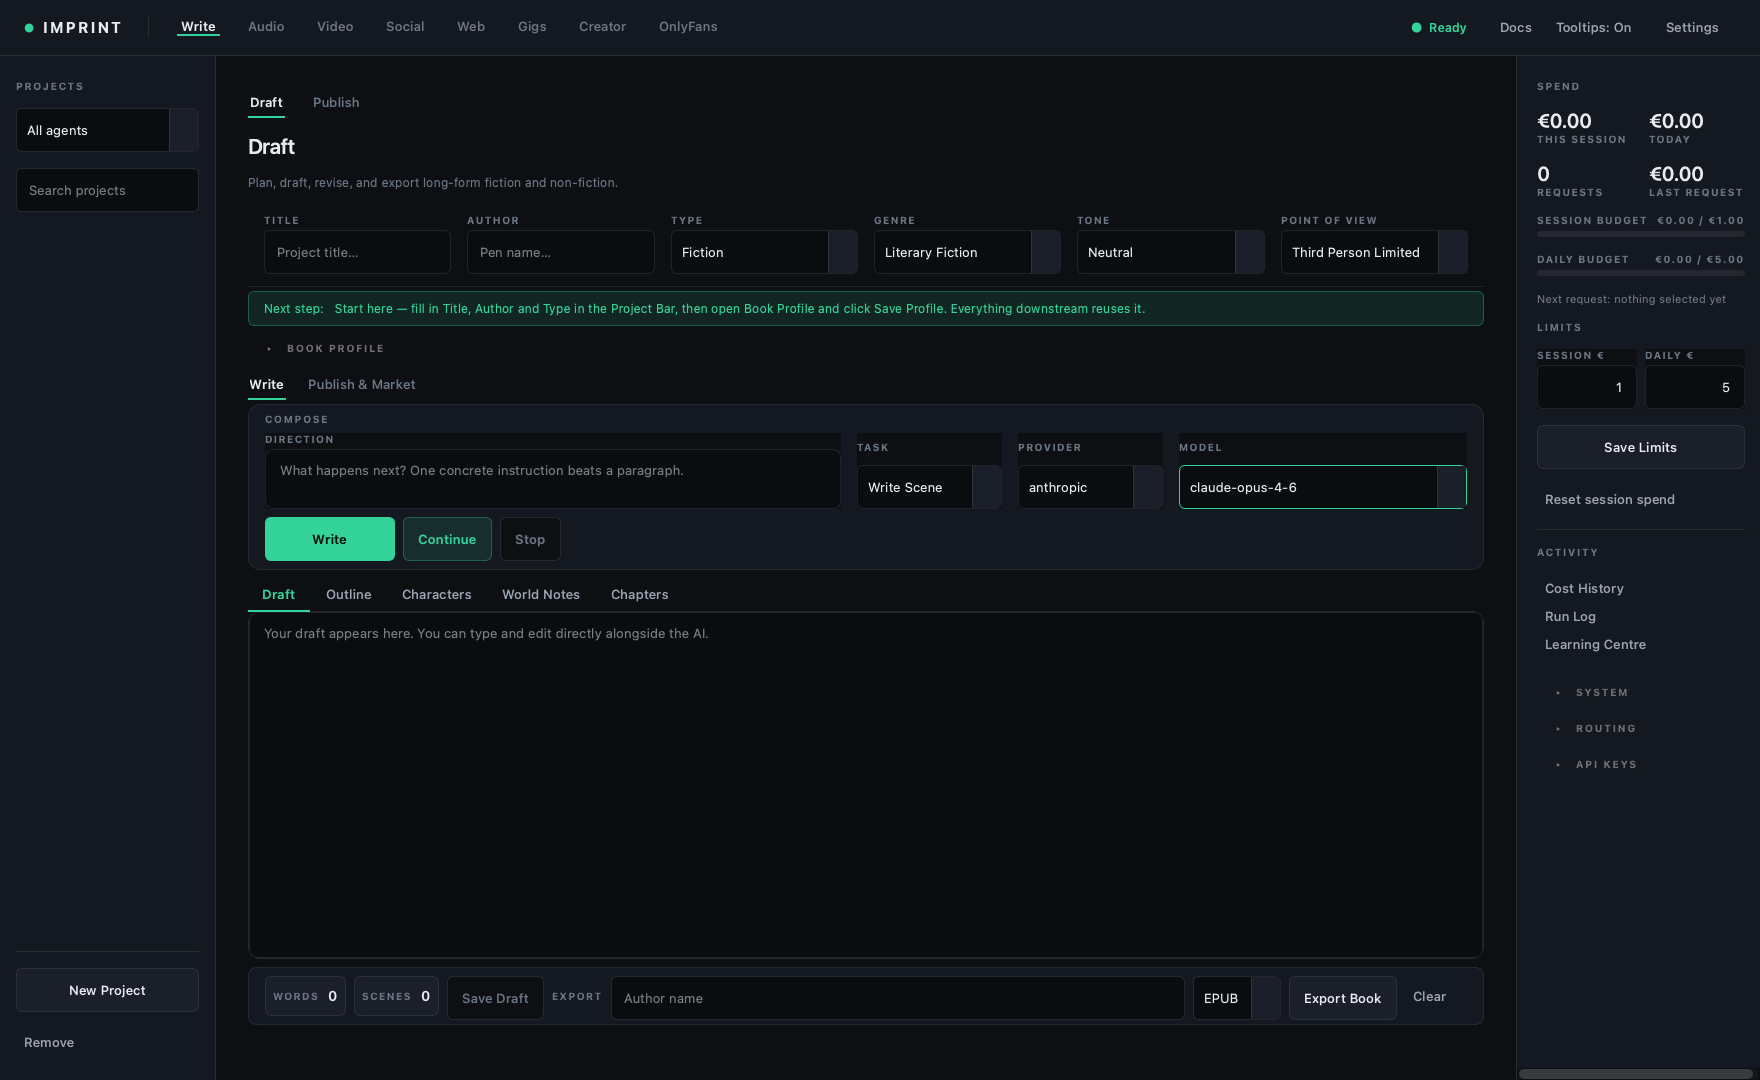
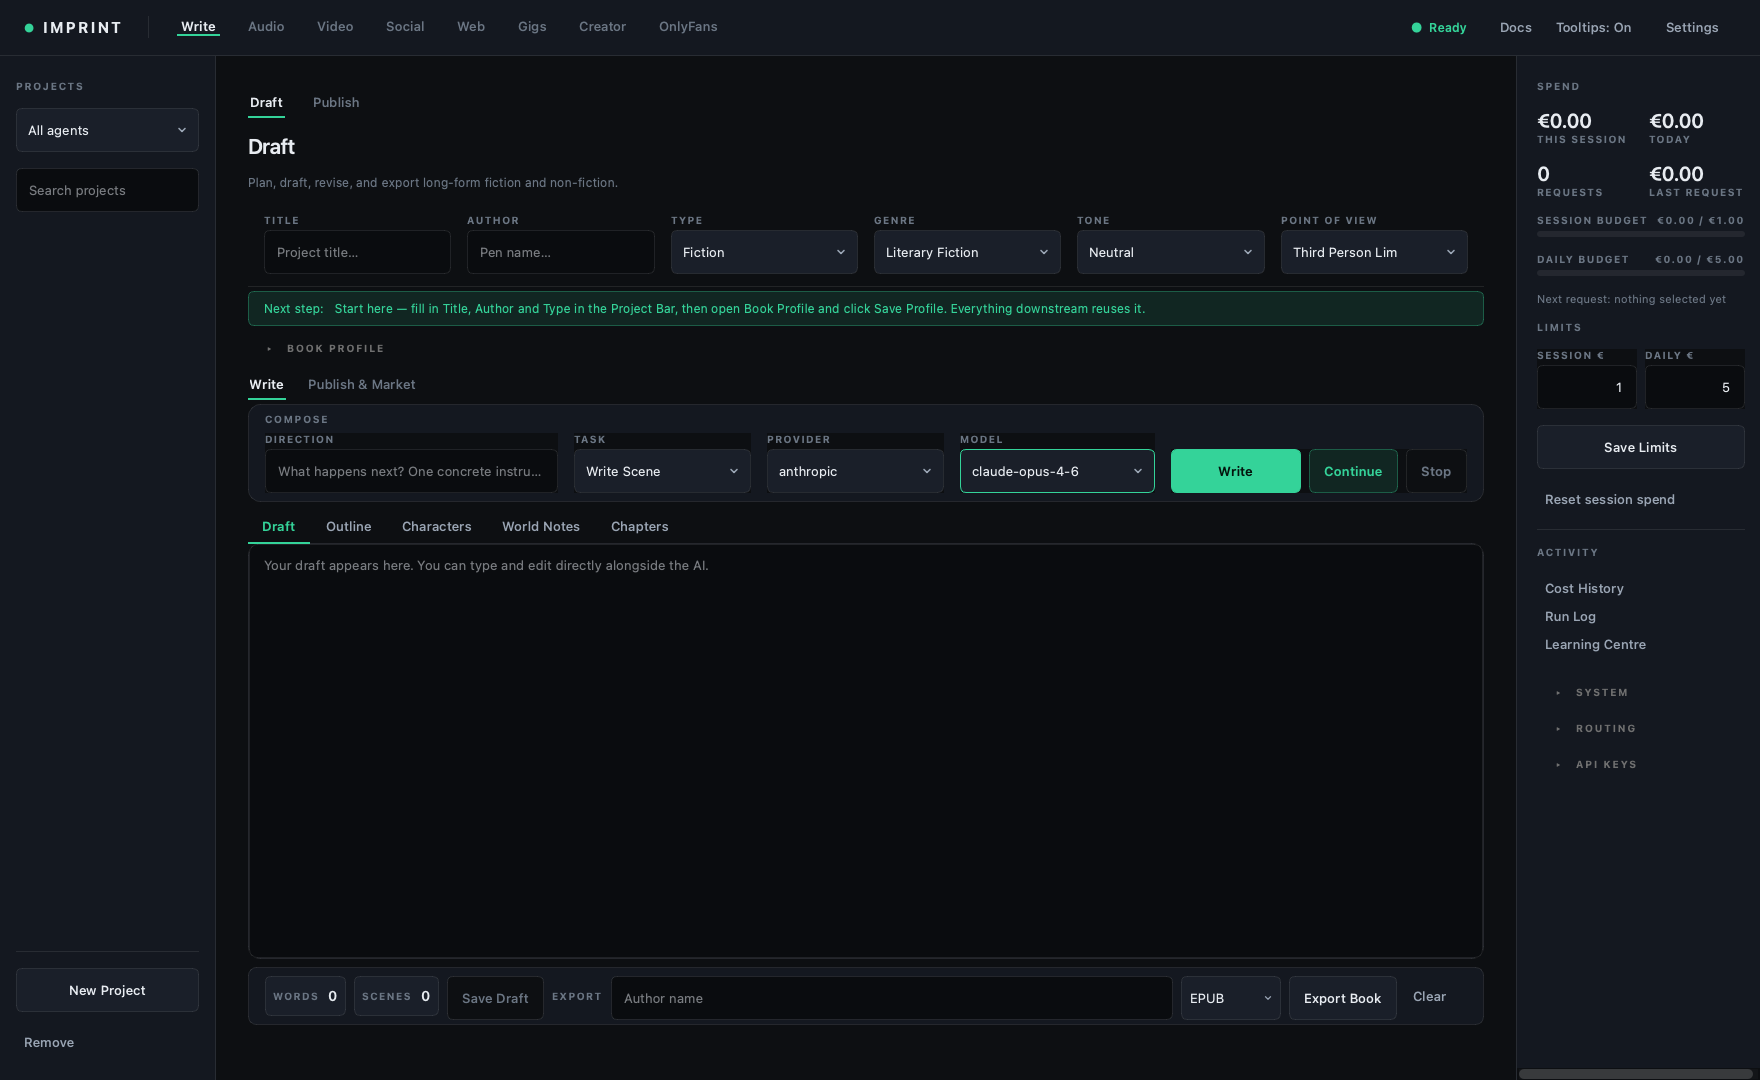
Combo boxes: a quiet SVG chevron, and a real popup
Replaces Qt's chunky platform-native arrow block with assets/dropdown-chevron.svg,
gives the value explicit right padding so a long model name can never run
underneath it, adds a CompactCombo variant for narrow selectors (EPUB / PDF)
that keeps the same visual language without spending most of its width on the
arrow, and styles the popup as a floating menu with comfortable targets rather
than a plain text dump.

let_combos_shrink() also caps the popup at nine visible items, switches it to
per-pixel scrolling and turns off its horizontal scrollbar — a list that scrolls
sideways is unusable with a mouse.

Four new layout tests cover it and the author workbench.

This was written by another Claude Code session on 2026-09-14 and left
uncommitted in the working tree; that session has since ended. I did not write
it, and the message above describes the diff rather than the author's intent.
Committing it because leaving finished, green work uncommitted protects nobody:
it has tests, the full suite passes with it in place (502), and since
git_autosync is now push-only for this repo, a working tree is no longer swept
up by the nightly run — so uncommitted really does mean unprotected.

diff --git a/ui/style.py b/ui/style.py
@@ -29,6 +29,8 @@ Greys are slightly blue rather than neutral (#0d0f12, not #0f0f0f) because a
 pure grey next to the emerald reads faintly magenta.
 """
 
+from services.runtime_paths import resource_base
+
 # ── Tokens ───────────────────────────────────────────────────────────────
 # Surfaces, darkest first. Page sits behind cards; inputs sink below cards.
 BG        = "#0d0f12"   # window / page
@@ -66,6 +68,8 @@ INFO_LINE   = "rgba(96, 165, 250, 0.32)"
 RADIUS    = "8px"
 RADIUS_SM = "6px"
 RADIUS_LG = "12px"
+
+CHEVRON_DOWN = (resource_base() / "assets" / "dropdown-chevron.svg").as_posix()
 
 
 GLOBAL_STYLESHEET = f"""
@@ -127,30 +131,71 @@ GLOBAL_STYLESHEET = f"""
             color: {TEXT};
             border: 1px solid {BORDER};
             border-radius: {RADIUS_SM};
-            padding: 6px 10px;
+            padding: 6px 38px 6px 11px;
             min-height: 20px;
         }}
         QComboBox:hover {{ border: 1px solid {BORDER_STRONG}; }}
         QComboBox:focus {{ border: 1px solid {ACCENT_LINE}; }}
-        /* Give selection controls a recognisable trailing affordance. The
-           native arrow remains platform-correct; the separated surface makes
-           a combo visually distinct from a text field even when its value is
-           long and elided. */
+        /* A quiet chevron makes the control recognisable without the chunky
+           platform-native arrow block.  The value gets explicit right padding
+           so long model names can never run underneath it. */
         QComboBox::drop-down {{
             border: none;
-            border-left: 1px solid {BORDER};
-            width: 28px;
+            width: 32px;
+            background-color: transparent;
+        }}
+        QComboBox:hover::drop-down {{
             background-color: {ELEVATED};
+        }}
+        QComboBox::down-arrow {{
+            image: url("{CHEVRON_DOWN}");
+            width: 12px;
+            height: 12px;
+        }}
+        /* Compact selectors (for example EPUB / PDF) retain the same visual
+           language without spending most of their width on the arrow area. */
+        QComboBox#CompactCombo {{
+            padding: 6px 26px 6px 8px;
+        }}
+        QComboBox#CompactCombo::drop-down {{ width: 24px; }}
+        QComboBox#CompactCombo::down-arrow {{
+            width: 10px;
+            height: 10px;
+        }}
+
+        /* The popup is a floating menu, not a plain text dump.  Each option
+           has a comfortable target and a contained hover/selection state. */
+        QComboBoxPrivateContainer {{
+            background-color: {SURFACE};
+            border: 1px solid {BORDER_STRONG};
+            border-radius: {RADIUS_LG};
+            padding: 5px;
         }}
         QComboBox QAbstractItemView {{
             background-color: {SURFACE};
             color: {TEXT};
-            border: 1px solid {BORDER_STRONG};
-            border-radius: {RADIUS_SM};
+            border: none;
+            border-radius: {RADIUS};
             padding: 4px;
+            font-size: 13px;
             selection-background-color: {ACCENT_WASH};
-            selection-color: {TEXT};
+            selection-color: {ACCENT};
             outline: none;
+        }}
+        QComboBox QAbstractItemView::item {{
+            min-height: 34px;
+            padding: 0 11px;
+            margin: 2px 0;
+            border: none;
+            border-radius: {RADIUS_SM};
+        }}
+        QComboBox QAbstractItemView::item:hover {{
+            background-color: {ELEVATED};
+            color: {TEXT};
+        }}
+        QComboBox QAbstractItemView::item:selected {{
+            background-color: {ACCENT_WASH};
+            color: {ACCENT};
         }}
 
         /* ── Buttons ───────────────────────────────────────────────── */

diff --git a/tests/test_panel_layout.py b/tests/test_panel_layout.py
@@ -193,6 +193,82 @@ def test_no_control_is_unreachable(app, window, agent, size):
     assert not unreachable, f"[{agent}] " + "; ".join(unreachable)
 
 
+def test_author_workbench_has_no_nested_control_scroller(app, window):
+    """Compose, Task and Model belong in the canvas, not a tiny scroll pane."""
+    from PySide6.QtWidgets import QScrollArea
+
+    _settle(app, window, (1760, 820), "author")
+    window._author_set_mode("write")
+    app.processEvents()
+    assert not window.author_panel.findChildren(QScrollArea)
+
+
+def test_author_compose_remains_whole_with_profile_open(app, window):
+    """Opening Book Profile must not crop the command deck below it."""
+    from PySide6.QtCore import QPoint
+
+    _settle(app, window, (1760, 820), "author")
+    window._author_set_mode("write")
+    was_open = window.author_profile_section.content.isVisible()
+    if not was_open:
+        window.author_profile_section.header_btn.click()
+    for _ in range(6):
+        app.processEvents()
+
+    card = window.author_compose_card
+    for control in (
+        window.author_direction_input,
+        window.author_task_box,
+        window.author_provider_box,
+        window.author_model_box,
+        window.author_write_btn,
+        window.author_continue_btn,
+        window.author_stop_btn,
+    ):
+        top_left = control.mapTo(card, QPoint(0, 0))
+        bottom_right = control.mapTo(card, control.rect().bottomRight())
+        assert card.rect().contains(top_left), _describe(control)
+        assert card.rect().contains(bottom_right), _describe(control)
+
+    if not was_open:
+        window.author_profile_section.header_btn.click()
+
+
+def test_author_footer_prioritises_primary_actions_when_narrow(app, window):
+    """Low-priority metadata gives way before Save or Export can be clipped."""
+    _settle(app, window, (1000, 600), "author")
+    window._author_set_mode("write")
+    for _ in range(6):
+        app.processEvents()
+
+    assert not window.author_word_metric.isVisible()
+    assert not window.author_export_author_input.isVisible()
+    assert window.author_save_btn.isVisible()
+    assert window.author_export_format_box.isVisible()
+    assert window.author_export_btn.isVisible()
+    assert window.author_save_btn.text() == "Save"
+    assert window.author_export_btn.text() == "Export"
+
+
+def test_dropdowns_use_the_shared_polished_popup(app, window):
+    """Dropdowns should read as menus, with usable rows and smooth scrolling."""
+    from PySide6.QtWidgets import QAbstractItemView
+
+    _settle(app, window, (1760, 820), "author")
+    combo = window.author_model_box
+    view = combo.view()
+
+    assert view.sizeHintForRow(0) >= 36
+    assert view.minimumWidth() >= 180
+    assert combo.maxVisibleItems() == 9
+    assert view.verticalScrollMode() == QAbstractItemView.ScrollPerPixel
+    assert "dropdown-chevron.svg" in window.styleSheet()
+
+    spec = os.path.join(os.path.dirname(__file__), "..", "Imprint.spec")
+    assert '("assets/dropdown-chevron.svg", "assets")' in open(
+        spec, encoding="utf-8").read()
+
+
 # ── Conditional fields ───────────────────────────────────────────────────────
 CREATOR_KINDS = [
     ("post", 2),        # kind + audience

diff --git a/main.py b/main.py
@@ -464,7 +464,7 @@ class GodAI(QWidget):
             self.author_save_btn.setFixedWidth(58)
             self.author_export_btn.setText("Export")
             self.author_export_btn.setFixedWidth(68)
-            self.author_export_format_box.setFixedWidth(64)
+            self.author_export_format_box.setFixedWidth(86)
         else:
             layout.setContentsMargins(MD, SM, MD, SM)
             layout.setSpacing(SM)
@@ -474,7 +474,7 @@ class GodAI(QWidget):
             self.author_export_btn.setText("Export Book")
             self.author_export_btn.setMinimumWidth(0)
             self.author_export_btn.setMaximumWidth(16777215)
-            self.author_export_format_box.setFixedWidth(88)
+            self.author_export_format_box.setFixedWidth(100)
 
     def _set_tooltips(self, mapping: dict):
         """Helper: apply a {widget_attr_name: text} mapping in one call.
@@ -2148,6 +2148,7 @@ class GodAI(QWidget):
 
         compose_card = QFrame()
         compose_card.setObjectName("AuthorComposeCard")
+        self.author_compose_card = compose_card
         compose_layout = QVBoxLayout(compose_card)
         compose_layout.setContentsMargins(MD, SM, MD, SM)
         compose_layout.setSpacing(SM)
@@ -2157,11 +2158,10 @@ class GodAI(QWidget):
         compose_grid.setHorizontalSpacing(MD)
         compose_grid.setVerticalSpacing(0)
 
-        self.author_direction_input = QTextEdit()
+        self.author_direction_input = QLineEdit()
         self.author_direction_input.setPlaceholderText(
             "What happens next? One concrete instruction beats a paragraph."
         )
-        self.author_direction_input.setFixedHeight(40)
         self.author_direction_field = field(
             "Direction", self.author_direction_input)
         compose_grid.addWidget(self.author_direction_field, 0, 0)
@@ -2306,8 +2306,9 @@ class GodAI(QWidget):
         document_actions.addWidget(self.author_export_author_input, 1)
 
         self.author_export_format_box = QComboBox()
+        self.author_export_format_box.setObjectName("CompactCombo")
         self.author_export_format_box.addItems(["EPUB", "DOCX", "PDF"])
-        self.author_export_format_box.setFixedWidth(88)
+        self.author_export_format_box.setFixedWidth(100)
         document_actions.addWidget(self.author_export_format_box)
         self.author_export_btn = QPushButton("Export Book")
         self.author_export_btn.clicked.connect(self.author_export_book)
@@ -6343,7 +6344,7 @@ class GodAI(QWidget):
         self.author_worker.start()
 
     def author_write(self):
-        direction = self.author_direction_input.toPlainText().strip()
+        direction = self.author_direction_input.text().strip()
         if not direction:
             QMessageBox.warning(self, "Missing Input", "Please enter a direction.")
             return
@@ -6360,7 +6361,7 @@ class GodAI(QWidget):
         self._author_start_worker(provider, model, prompt, recent_draft_text=existing)
 
     def author_continue(self):
-        direction = self.author_direction_input.toPlainText().strip()
+        direction = self.author_direction_input.text().strip()
         provider = self.author_provider_box.currentText()
         model = self.author_model_box.currentText()
         if not model:

diff --git a/ui/widgets.py b/ui/widgets.py
@@ -8,7 +8,8 @@ controls past their own minimums until the labels are chopped.
 """
 from PySide6.QtCore import Qt, QRect, QPoint, QSize
 from PySide6.QtWidgets import (
-    QComboBox, QLayout, QPushButton, QScrollArea, QVBoxLayout, QWidget,
+    QAbstractItemView, QComboBox, QLayout, QPushButton, QScrollArea,
+    QVBoxLayout, QWidget,
 )
 
 
@@ -228,8 +229,11 @@ def let_combos_shrink(root: QWidget, visible_chars: int = 8) -> int:
         natural = combo.sizeHint().width()
         combo.setSizeAdjustPolicy(QComboBox.AdjustToMinimumContentsLengthWithIcon)
         combo.setMinimumContentsLength(visible_chars)
+        combo.setMaxVisibleItems(9)
         view = combo.view()
         if view is not None:
             view.setMinimumWidth(max(natural, 180))
+            view.setVerticalScrollMode(QAbstractItemView.ScrollPerPixel)
+            view.setHorizontalScrollBarPolicy(Qt.ScrollBarAlwaysOff)
         count += 1
     return count
